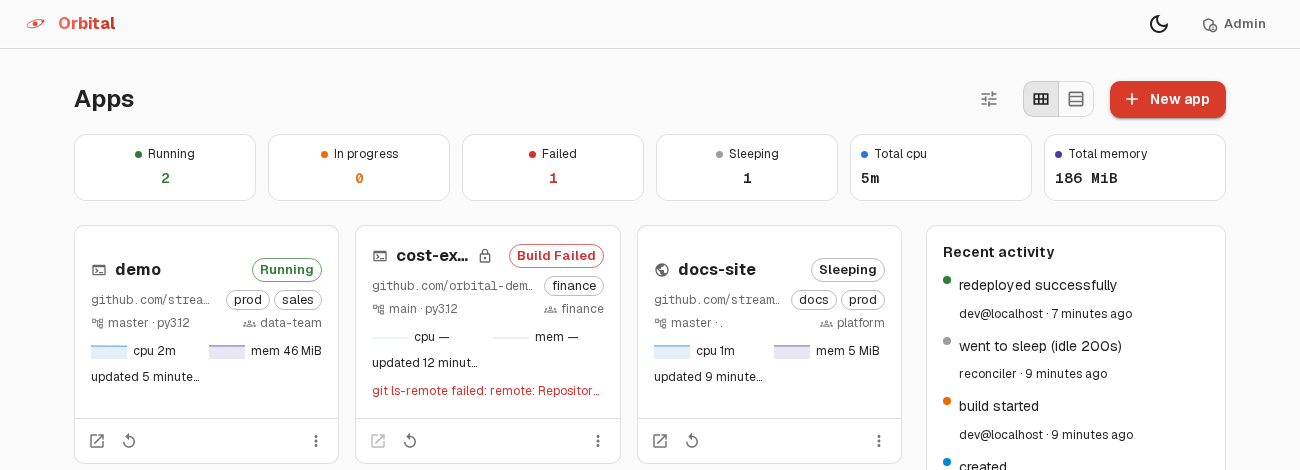
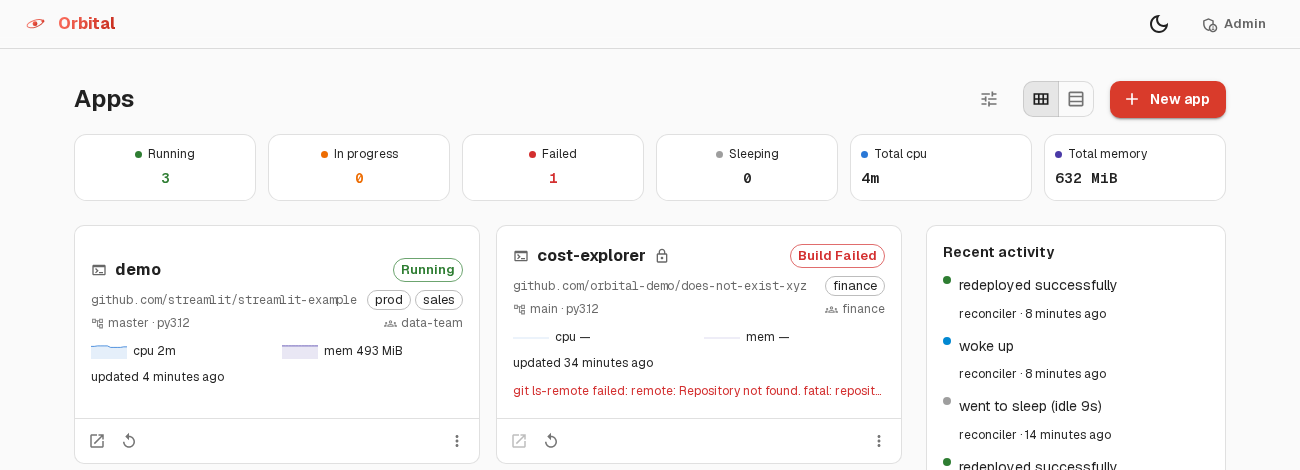
Cap the apps card grid at two columns
Three columns crowded the card grid next to the 300px activity rail,
truncating slug names and repo URLs unnecessarily - two columns gives each
card enough width to show that text in full.

diff --git a/ui/src/app/page.tsx b/ui/src/app/page.tsx
@@ -53,7 +53,7 @@ export function AppsListBody({
   const gridSx = {
     display: "grid",
     gap: 2,
-    gridTemplateColumns: { xs: "1fr", sm: "1fr 1fr", md: "1fr 1fr 1fr" },
+    gridTemplateColumns: { xs: "1fr", sm: "1fr 1fr" },
   };
 
   if (loading) {
